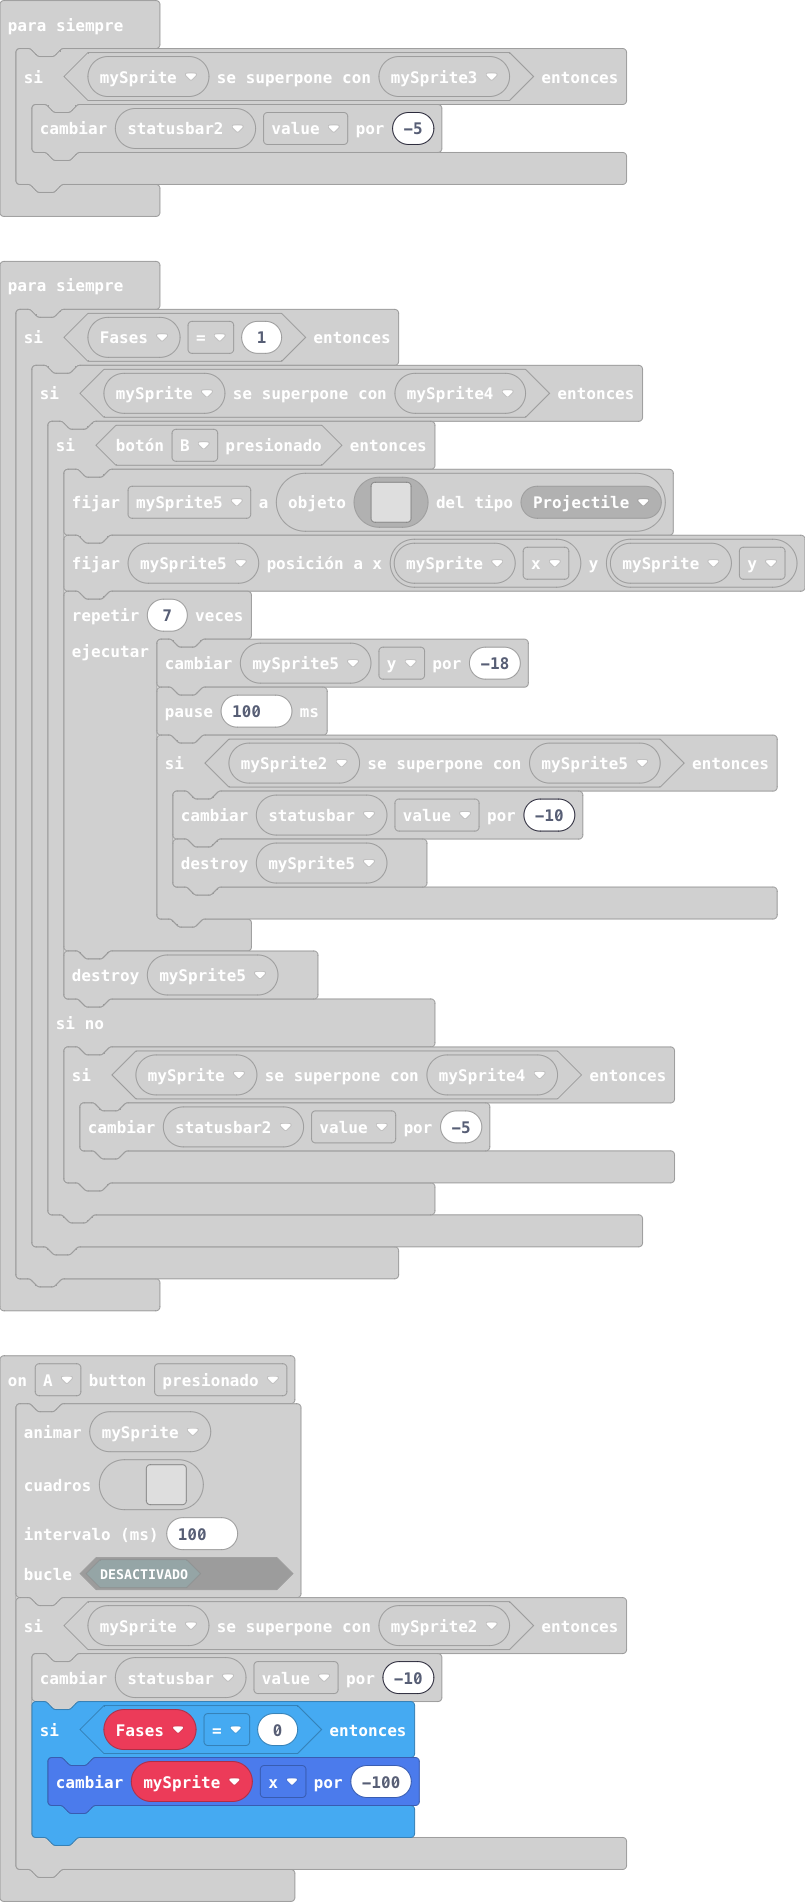
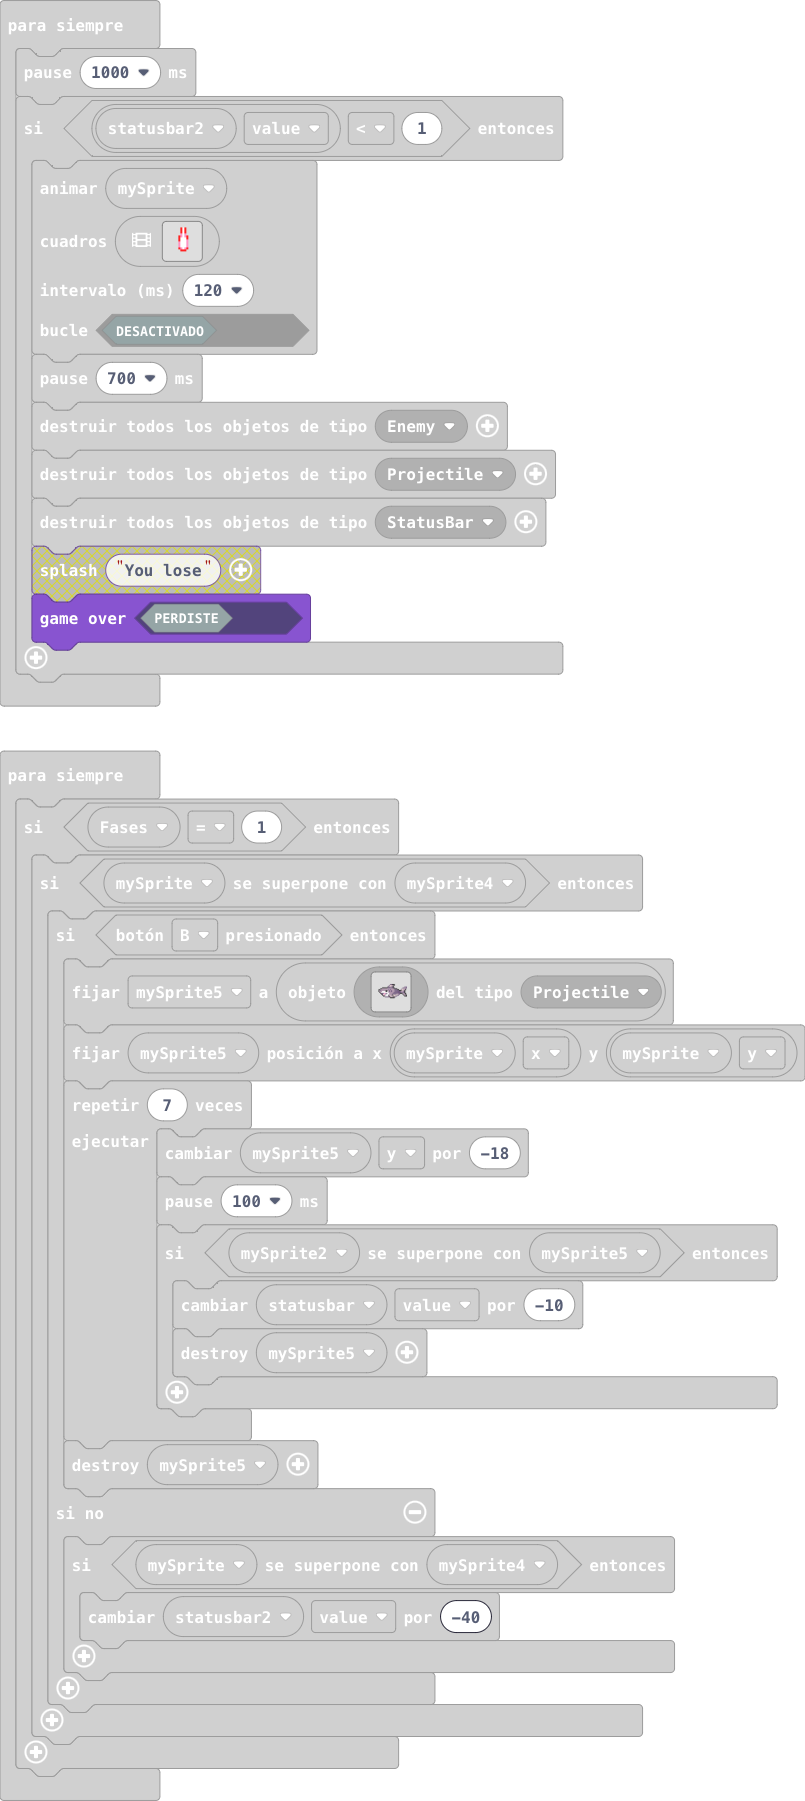
game over

diff --git a/main.ts b/main.ts
@@ -746,7 +746,7 @@ forever(function () {
         sprites.destroyAllSpritesOfKind(SpriteKind.Enemy)
         sprites.destroyAllSpritesOfKind(SpriteKind.Projectile)
         sprites.destroyAllSpritesOfKind(SpriteKind.StatusBar)
-        game.splash("You lose")
+        game.gameOver(false)
     }
 })
 forever(function () {
@@ -1183,7 +1183,7 @@ forever(function () {
                 sprites.destroy(mySprite5)
             } else {
                 if (mySprite.overlapsWith(mySprite4)) {
-                    statusbar2.value += -5
+                    statusbar2.value += -40
                 }
             }
         }
